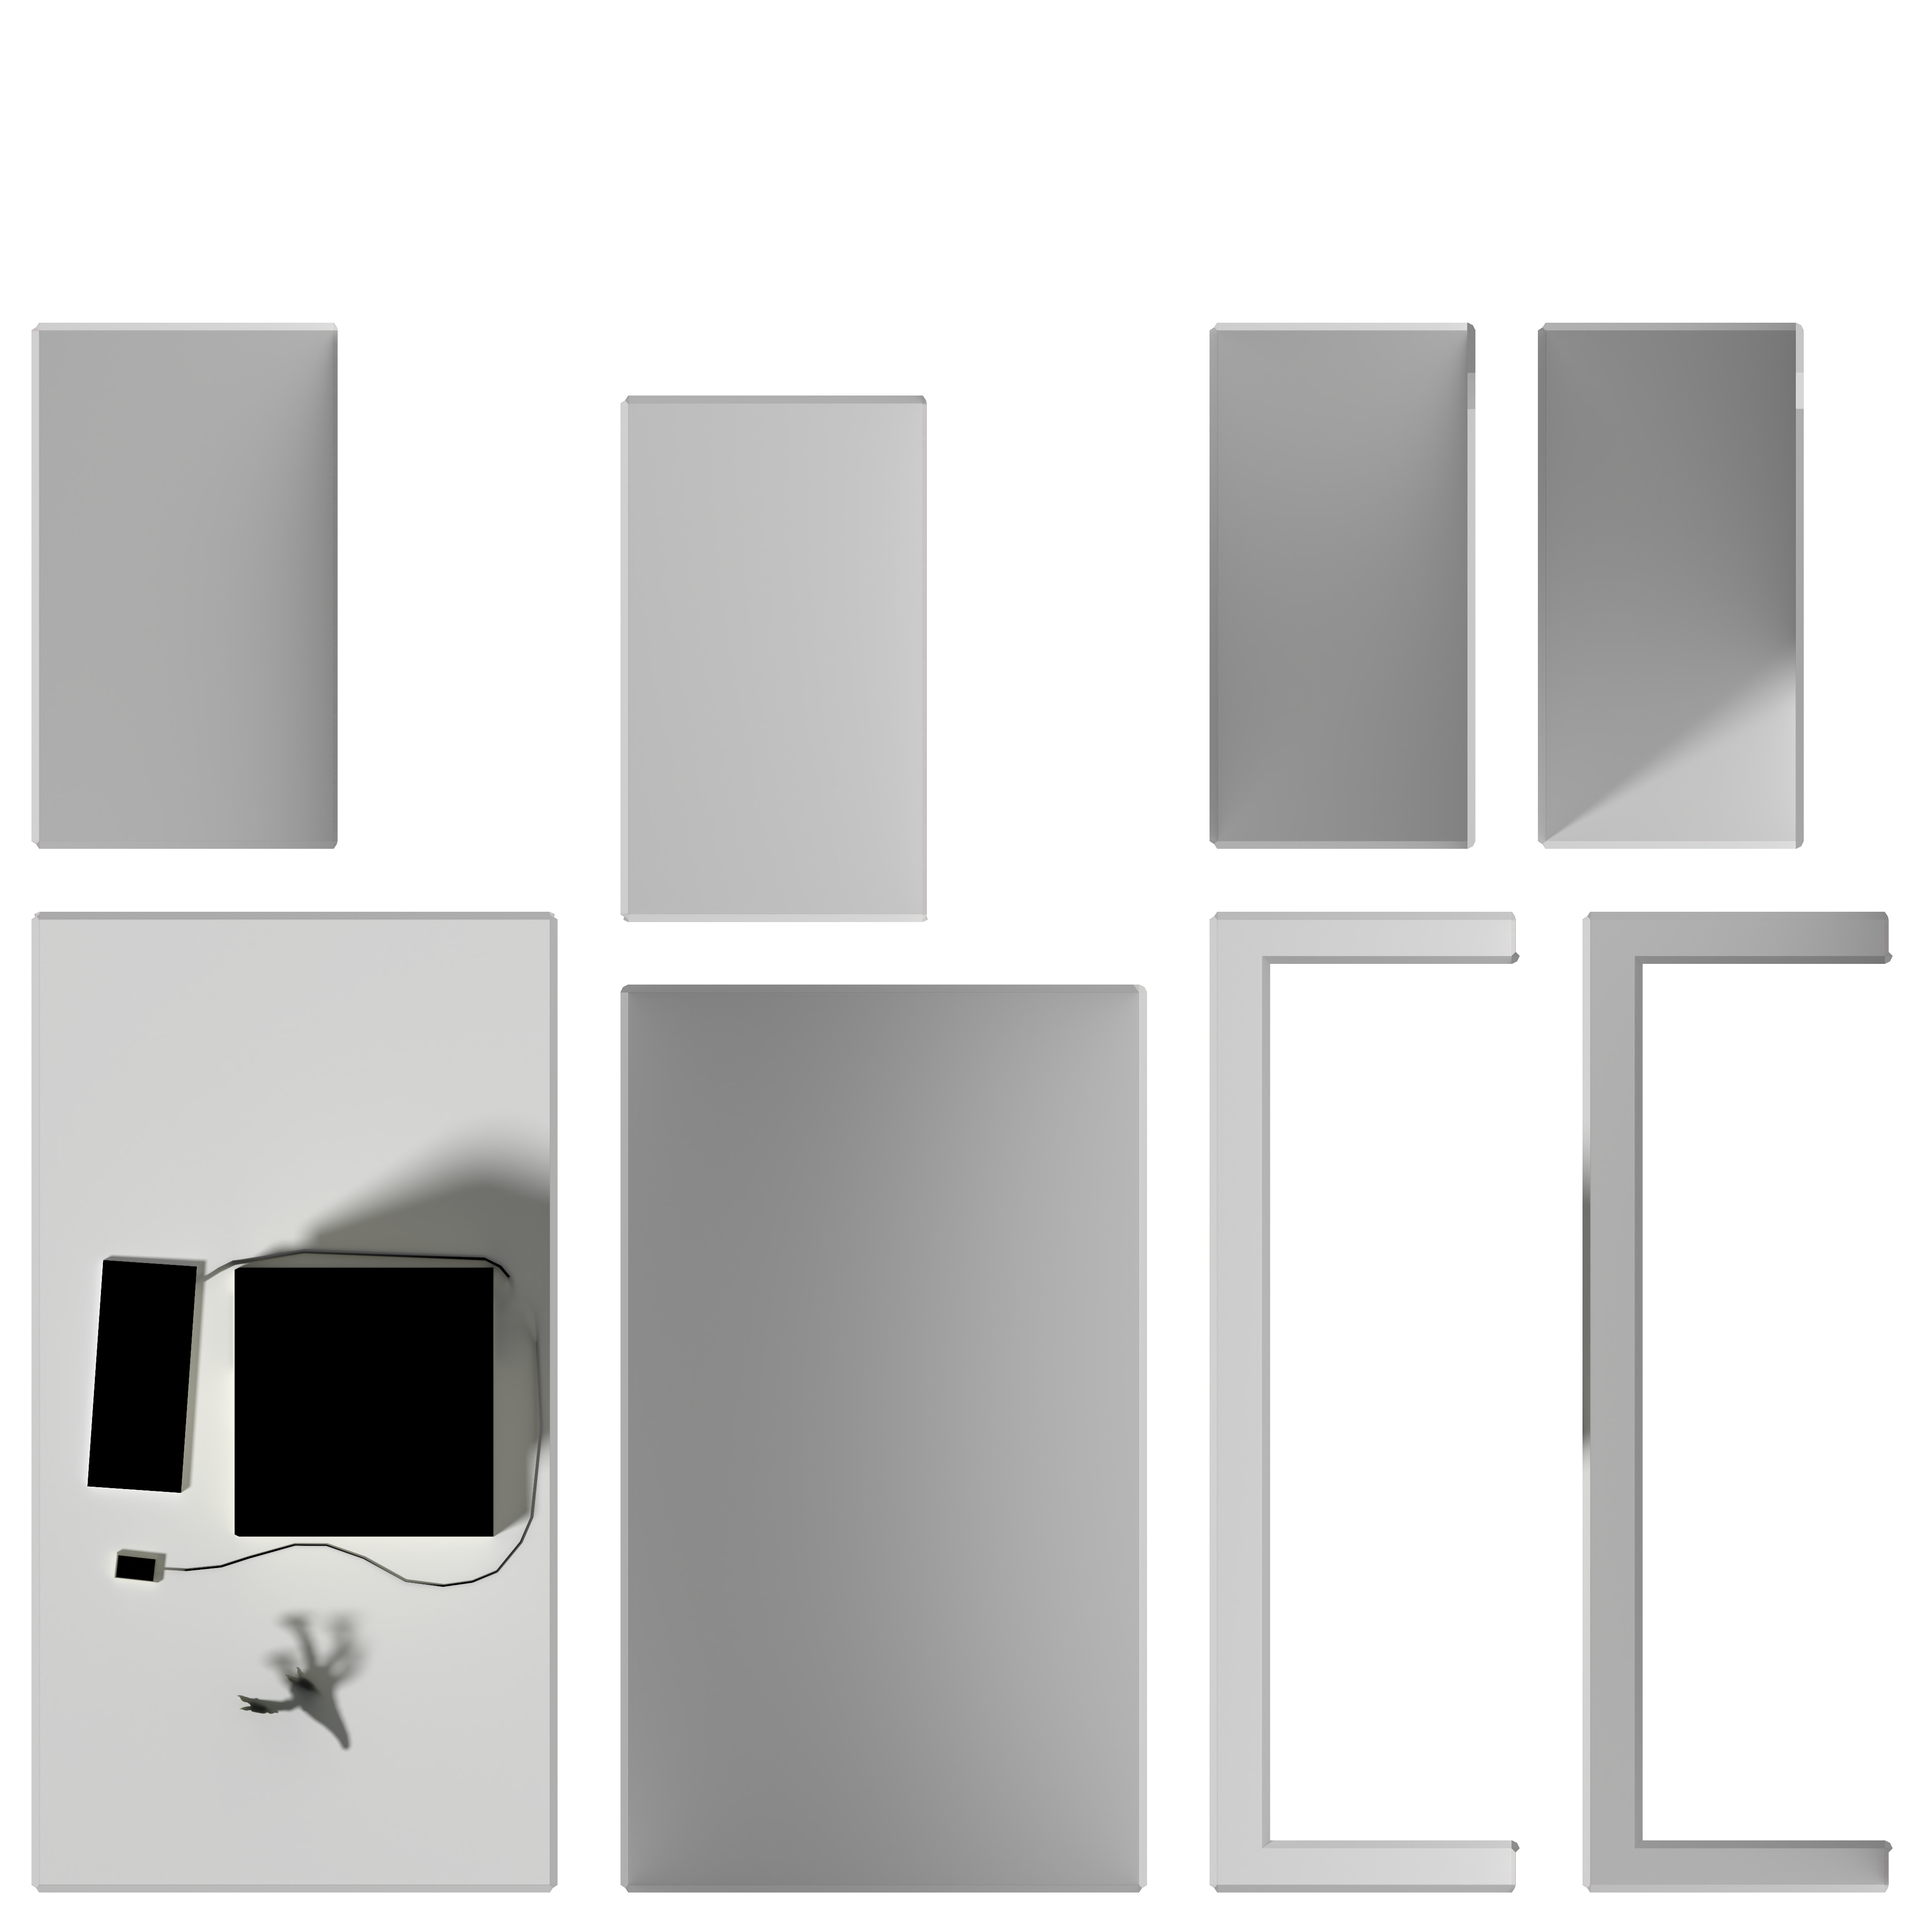
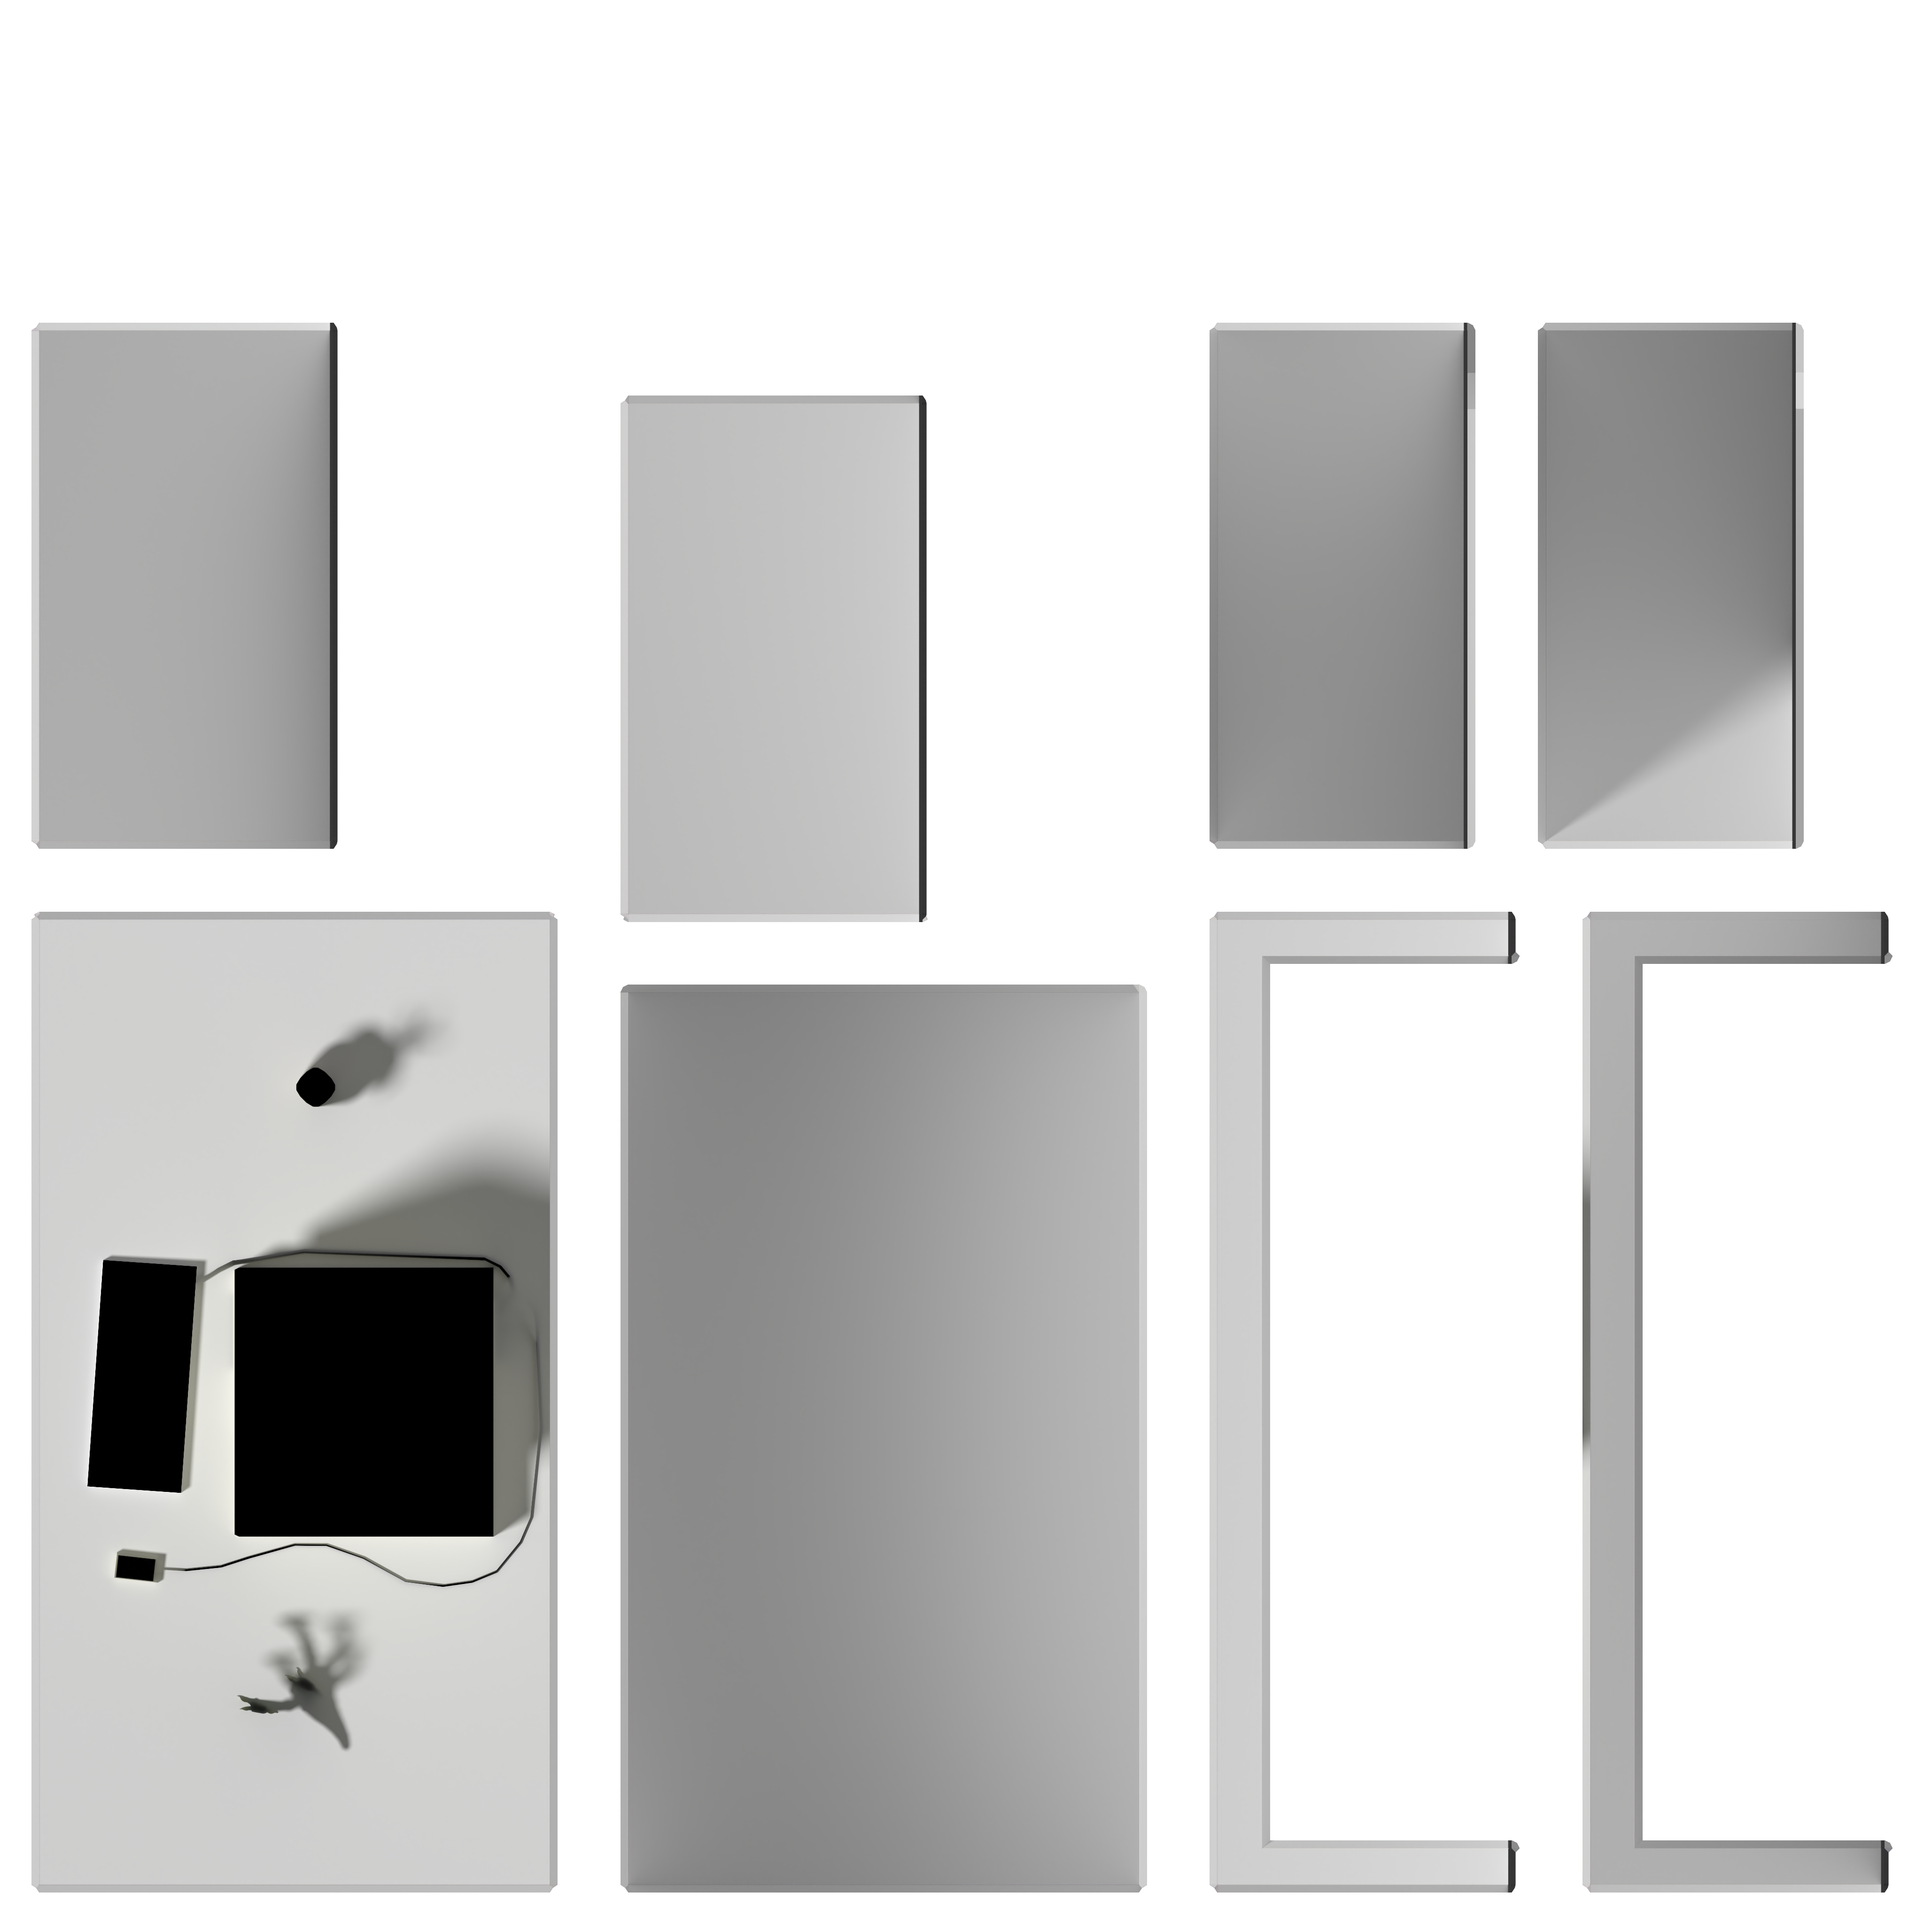
Added a plant and redid the desk and floor renders

Changed region(s): [[0.4688, 0.2188, 0.5, 0.4688], [0.1562, 0.1875, 0.1875, 0.4375], [0.1562, 0.5312, 0.2188, 0.5938]]

diff --git a/apps/web/components/scene-loader/SceneLoader.tsx b/apps/web/components/scene-loader/SceneLoader.tsx
@@ -2,7 +2,7 @@ import { useEffect, useState, useRef } from "react";
 import { LoadingManager } from "three";
 import { Renderer, RendererScenes } from "../renderer/Renderer";
 import { AssetManager, LoadingProgress, LoadingProgressEntry, UpdateAction } from "./AssetManager";
-import { CablesLoader, DeskLoader, FloorLoader, KeyboardLoader, LightsLoader, MonitorLoader, MouseLoader, HydraLoader, NoopLoader, createRenderScenes } from "./AssetLoaders";
+import { CablesLoader, DeskLoader, FloorLoader, KeyboardLoader, LightsLoader, MonitorLoader, MouseLoader, HydraLoader, NoopLoader, createRenderScenes, PlantLoader } from "./AssetLoaders";
 import { detectWebGL, isDebug, isMobileDevice } from "./util";
 import styles from './SceneLoader.module.css';
 
@@ -192,6 +192,7 @@ export function SceneLoader() {
     manager.add('Loading mouse', MouseLoader());
     manager.add('Loading lights', LightsLoader());
     manager.add('Loading floor', FloorLoader());
+    manager.add('Loading plant', PlantLoader());
     manager.add('Loading Alchemical Hydra', HydraLoader());
     manager.add('Loading keyboard', KeyboardLoader());
     manager.add('Loading monitor', MonitorLoader());

diff --git a/apps/web/components/scene-loader/AssetLoaders.ts b/apps/web/components/scene-loader/AssetLoaders.ts
@@ -441,3 +441,37 @@ export function HydraLoader(): AssetLoader {
     builderProcessTime: 0
   }
 }
+
+export function PlantLoader(): AssetLoader {
+  let asset: GLTF | null = null;
+  let texture: Texture | null = null;
+
+  async function downloader(context: AssetManagerContext): Promise<void> {
+    const assetLoader = async () => { asset = await loadModel(context, '/assets/Plant.glb'); }
+    const textureLoader = async () => { texture = await loadTexture(context, '/assets/Plant.png'); }
+
+    await Promise.all([assetLoader(), textureLoader()]);
+  }
+
+  function builder(context: AssetManagerContext): OptionalUpdateAction {
+    if (!asset) { return null; }
+
+    let material = new MeshBasicMaterial({ map: texture });
+
+    asset.scene.traverse(node => {
+      if (!(node instanceof Mesh)) { return; }
+
+      node.material = material;
+    });
+
+    context.scenes.sourceScene.add(asset.scene);
+
+    return null;
+  }
+
+  return {
+    downloader,
+    builder,
+    builderProcessTime: 0
+  }
+}
